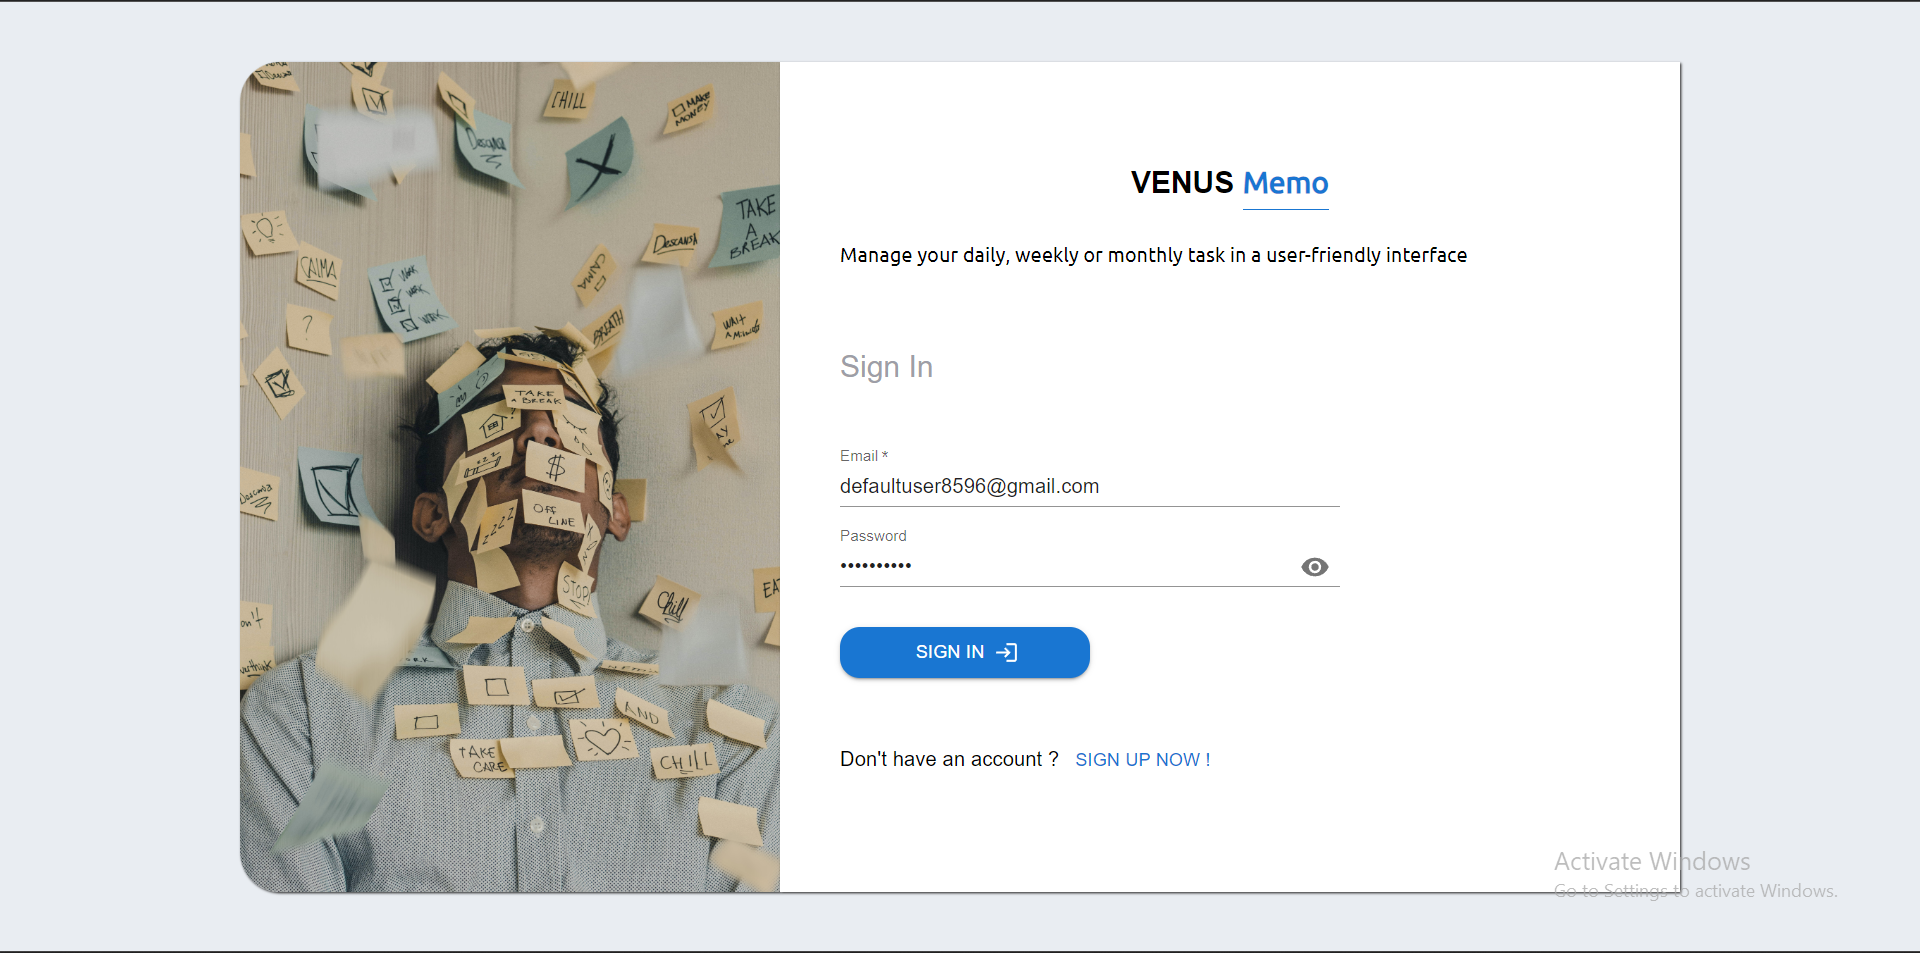
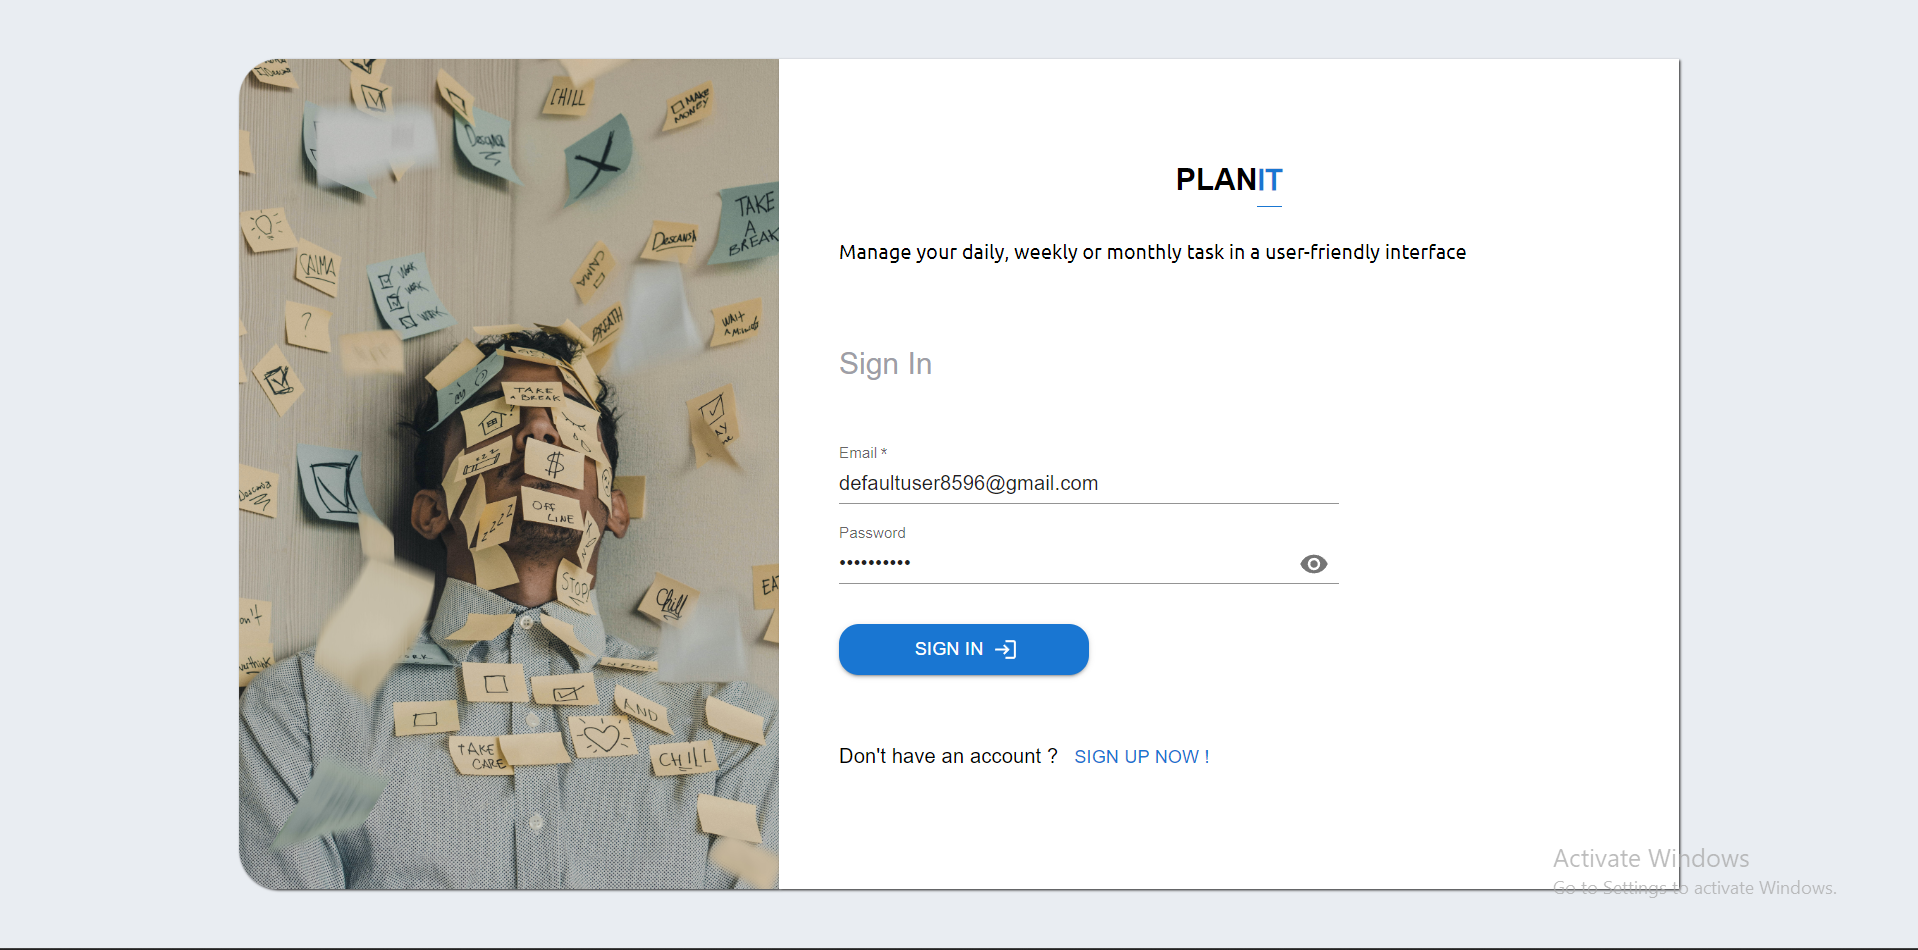
readme

diff --git a/client/src/components/Dashboard/Dashboard.jsx b/client/src/components/Dashboard/Dashboard.jsx
@@ -115,10 +115,10 @@ const Dashboard = ({ user, userTasks, userStatisticsEntries }) => {
                 </Stack>
             </Grid>
             <Grid item xs={4} sx={{ padding: "1rem", background: "#fff", margin: "0 0 0 4.2rem", borderRadius: "1rem"}}>
-                <Typography sx={{ fontSize: "1.4rem", color: "#333"}}>
-                    Tasks Statistics
-                </Typography>
-            {userStatisticsEntries.map(entry => {
+                    <Typography sx={{ fontSize: "1.4rem", color: "#333"}}>
+                        Tasks Statistics
+                    </Typography>
+                    {userStatisticsEntries.map(entry => {
                     return (
                     <Box sx={{ background: `${getTaskStatusColor(entry[0])}`, borderRadius: "1rem", padding: ".5rem", 
                             margin: "1rem 0", display: "flex", justifyContent: "space-between", alignItems: "center"}}>

diff --git a/client/src/components/Main/Main.jsx b/client/src/components/Main/Main.jsx
@@ -46,7 +46,7 @@ export default function Main({ onUserRegisterationRequestMain, onUserAuthRequest
         </Box>
         <Box sx={{ background: "#fff", height: "100%", width: "50%", padding: "3rem", boxShadow: "1px 1px 2px #333"}}>
             <Typography variant="h5" sx={{ fontWeight: "bold", margin: "2rem 1rem", textAlign: "center"}}>
-                PLAN <span style={{ color: "#1976D2", borderBottom: "1px solid #1976D2", paddingBottom: ".5rem" }}>IT</span> 
+                PLAN<span style={{ color: "#1976D2", borderBottom: "1px solid #1976D2", paddingBottom: ".5rem" }}>IT</span> 
             </Typography>
             <Typography variant="p">
               Manage your daily, weekly or monthly task in a user-friendly interface

diff --git a/client/src/components/UI/Navigation.jsx b/client/src/components/UI/Navigation.jsx
@@ -47,7 +47,7 @@ export default function SideBar() {
   return (
     <SideBarTheme>
         <Typography variant="h5" sx={{ color: "#fff", fontWeight: "bold", margin: "2rem 1rem", textAlign: "center"}}>
-            PLAN <span style={{ color: "#1976D2", borderBottom: "1px solid #1976D2", paddingBottom: ".5rem" }}>IT</span> 
+            PLAN<span style={{ color: "#1976D2", borderBottom: "1px solid #1976D2", paddingBottom: ".5rem" }}>IT</span> 
         </Typography>
         <ListItem disablePadding sx={{'&:hover': { background: "#1976D2"}}}>
           <ListItemButton>

diff --git a/README.md b/README.md
@@ -1,4 +1,4 @@
-## Portfolio Website
+## PlanIt User Task Manager
 
 ## About Project
 
@@ -58,7 +58,7 @@ This will create all necessary database tables using the initial migrations in t
   <img src="https://encrypted-tbn0.gstatic.com/images?q=tbn:ANd9GcS7gmv65nxUV9rPmaJRuu4GL77Czoqvh9Qv0g&usqp=CAU" width="50px" height="50px"/>
 </div>
 
-## UI Screenshots
+## Features
 
 ### Login UI
 
